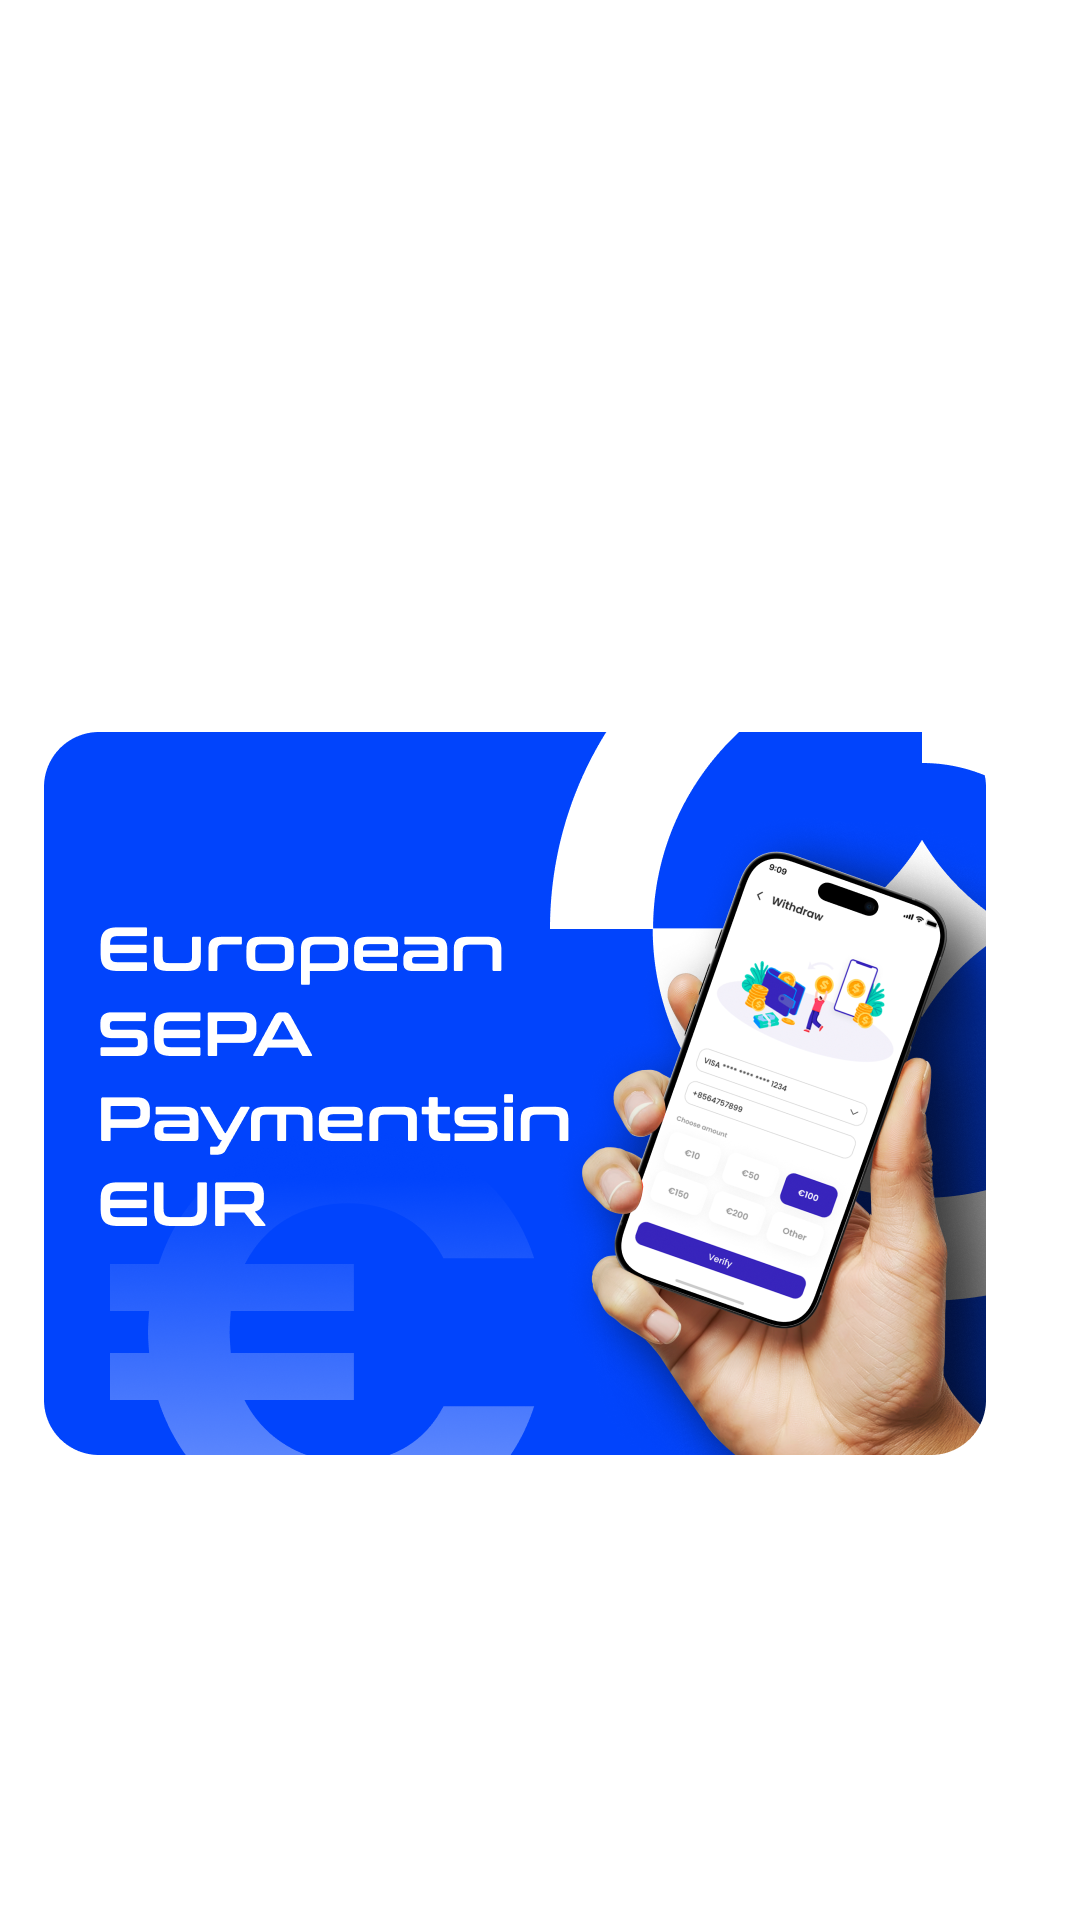
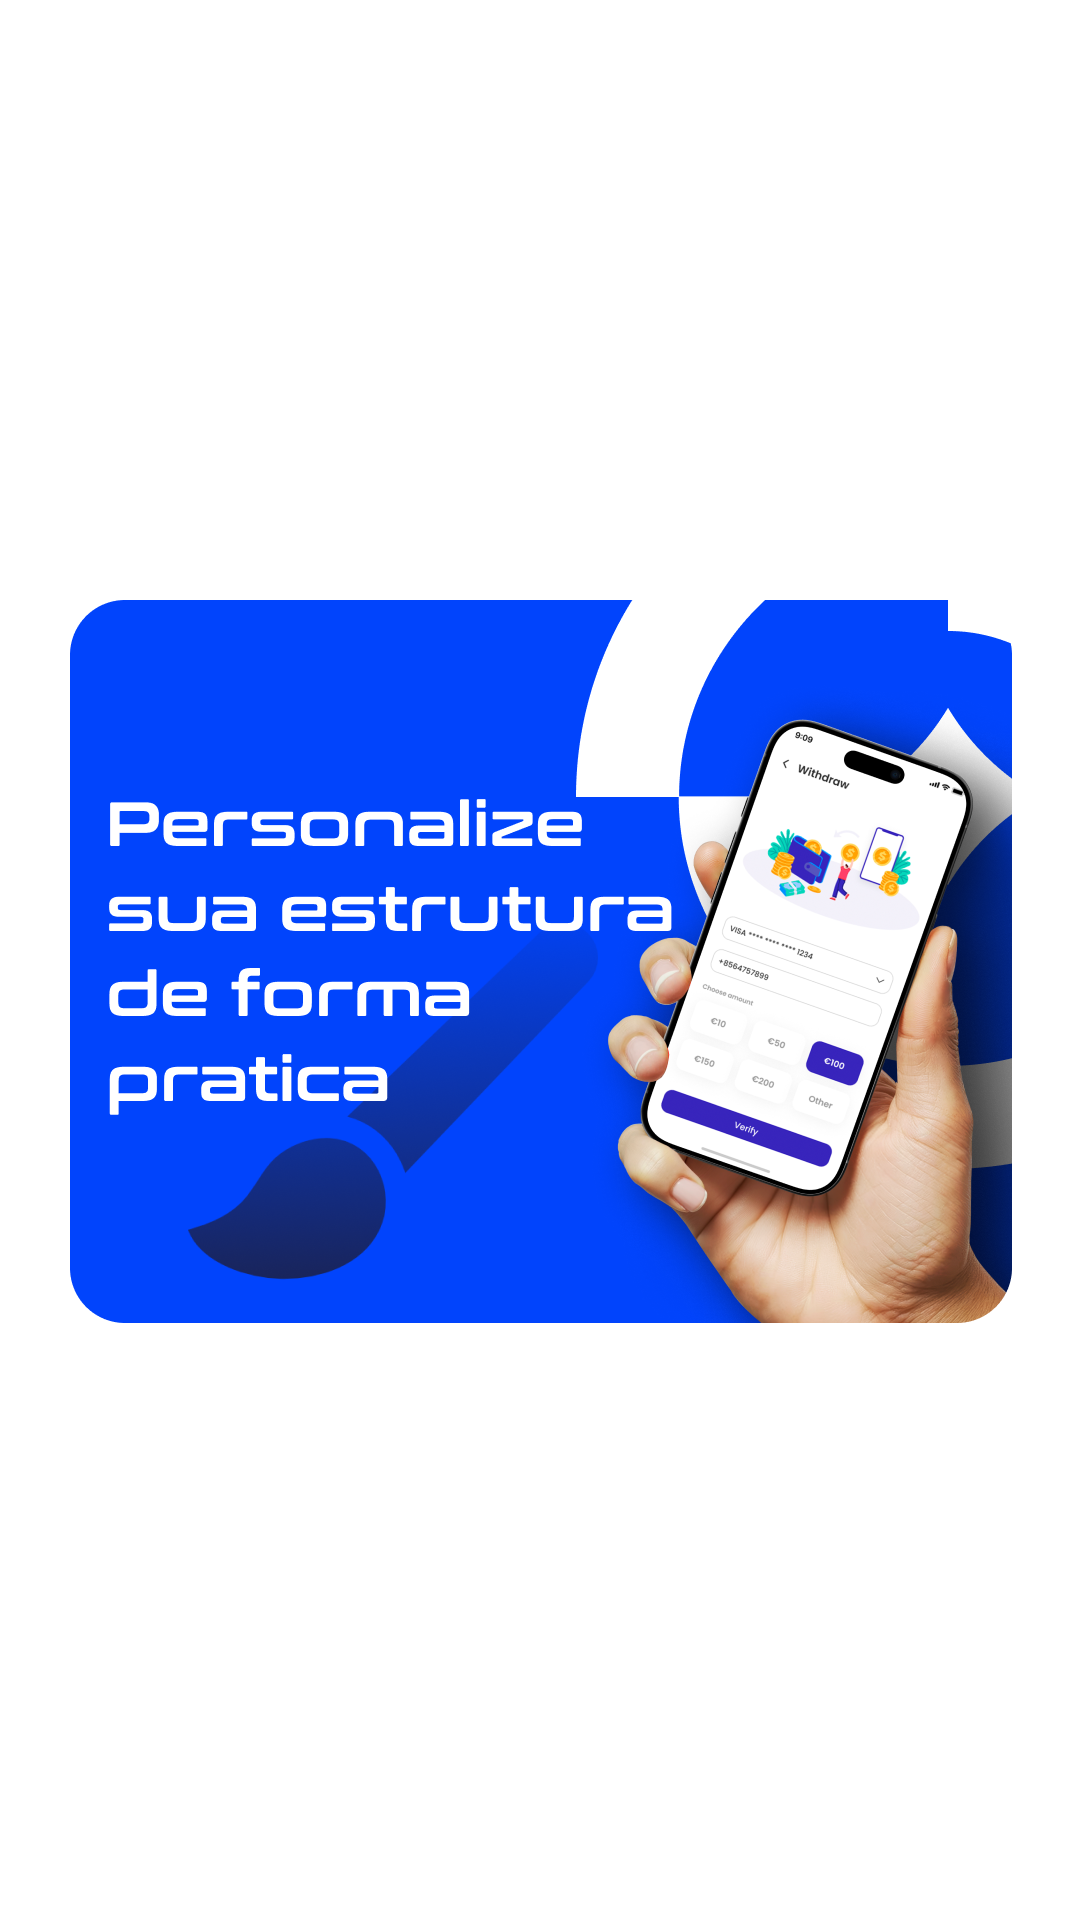
imagens re-ajustadas.

Changed region(s): [[0.0306, 0.3125, 0.9472, 0.7812]]

diff --git a/style.css b/style.css
@@ -5061,6 +5061,77 @@ button:focus {
   transition: transform 0.3s ease, margin 0.3s ease;
 }
 
+/* Estilos específicos para desktop para garantir alinhamento correto */
+@media only screen and (min-width: 768px) {
+  .IntroCards_intro-cards-content__BK1uU {
+    align-items: stretch;
+    justify-content: center;
+    gap: 32px;
+  }
+
+  .IntroCard_intro-card__HkxI_ {
+    width: calc(50% - 16px);
+    max-width: none;
+    min-height: 58px;
+    display: flex;
+    align-items: stretch;
+  }
+
+  .IntroCard_intro-card_image__iFjXI {
+    display: flex;
+    align-items: center;
+    justify-content: center;
+  }
+
+  .IntroCard_intro-card_image-inner__bLNdF {
+    width: 100%;
+    height: 100%;
+    object-fit: cover;
+    border-radius: 32px;
+  }
+}
+
+/* Estilos para telas maiores (1025px+) */
+@media only screen and (min-width: 1025px) {
+  .IntroCards_intro-cards-content__BK1uU {
+    gap: 32px;
+    align-items: stretch;
+  }
+
+  .IntroCard_intro-card__HkxI_ {
+    width: calc(50% - 16px);
+    min-height: 58px;
+  }
+
+  .IntroCard_intro-card_image__iFjXI {
+    position: absolute;
+    left: 0;
+    top: 0;
+    width: 100%;
+    height: 100%;
+    z-index: 1;
+    display: flex;
+    align-items: center;
+    justify-content: center;
+  }
+
+  .IntroCard_intro-card_image-inner__bLNdF {
+    width: 100%;
+    height: 100%;
+    object-fit: cover;
+    border-radius: 32px;
+    max-width: 100%;
+    max-height: 100%;
+  }
+
+  /* Ajuste específico para a segunda imagem no desktop */
+  .IntroCards_intro-cards-content__BK1uU
+    > div:nth-child(2)
+    .IntroCard_intro-card_image-inner__bLNdF {
+    object-position: center 46%;
+  }
+}
+
 /* Ajuste específico para mobile - cards mais próximos */
 @media only screen and (max-width: 767px) {
   .IntroCards_intro-cards-content__BK1uU {
@@ -5090,7 +5161,7 @@ button:focus {
 .IntroCards_intro-cards-content__BK1uU
   > div:nth-child(2)
   .IntroCard_intro-card_image-inner__bLNdF {
-  object-position: center 68%;
+  object-position: center 46%;
 }
 
 .Hero_hero-block-image--suporte {
